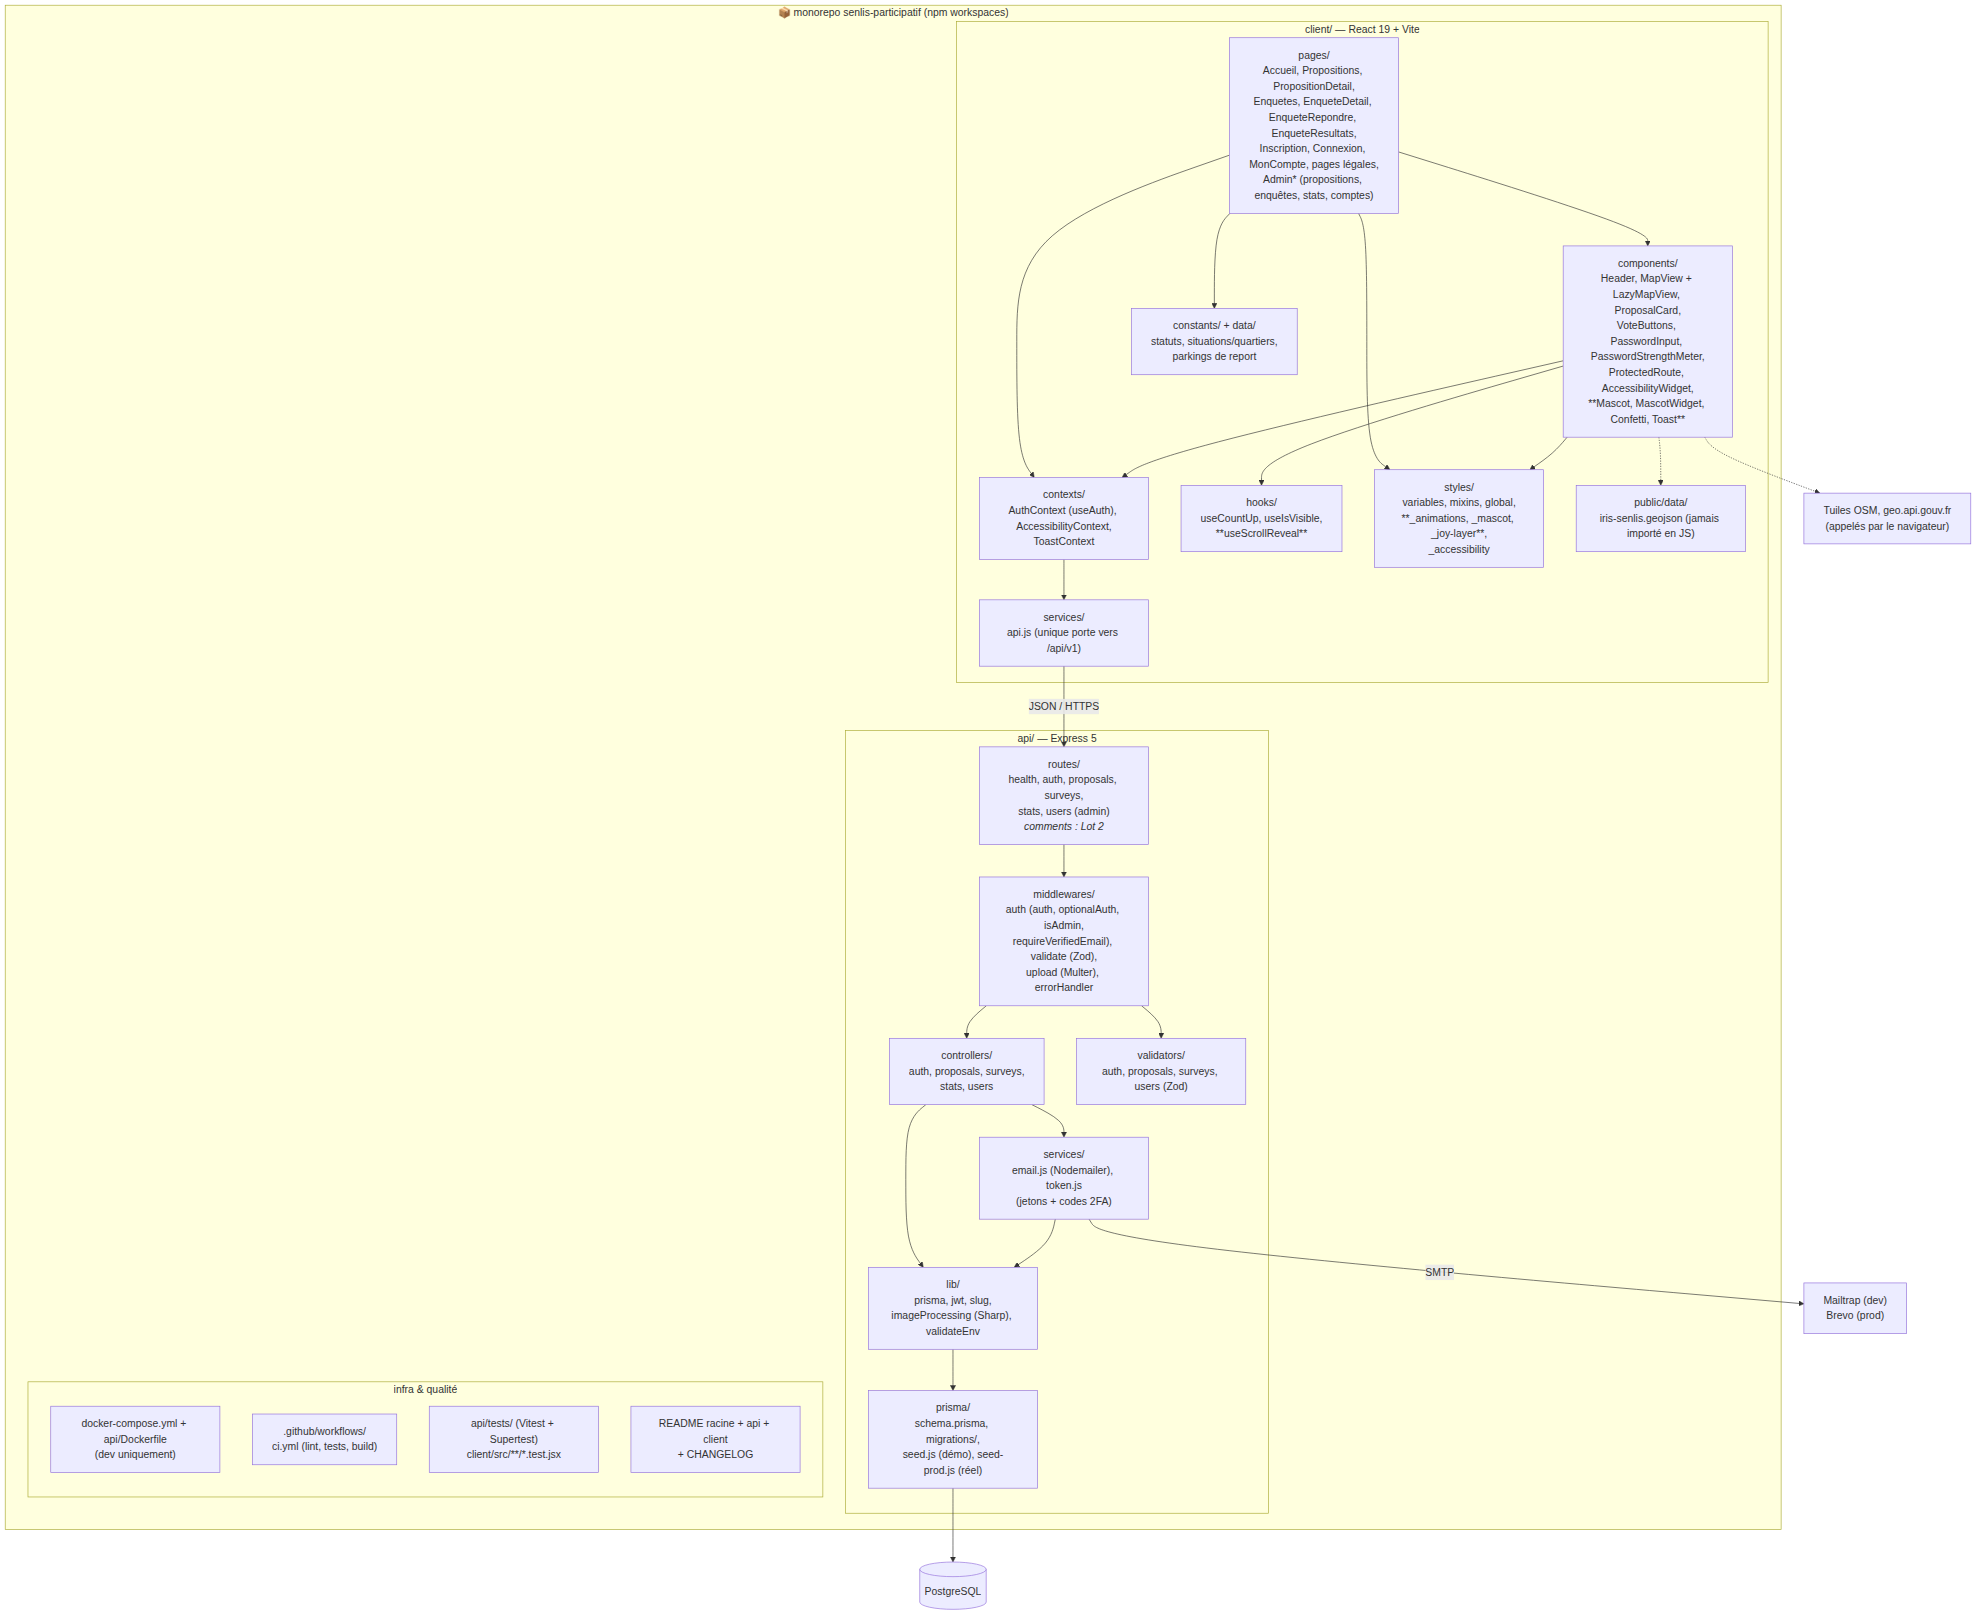
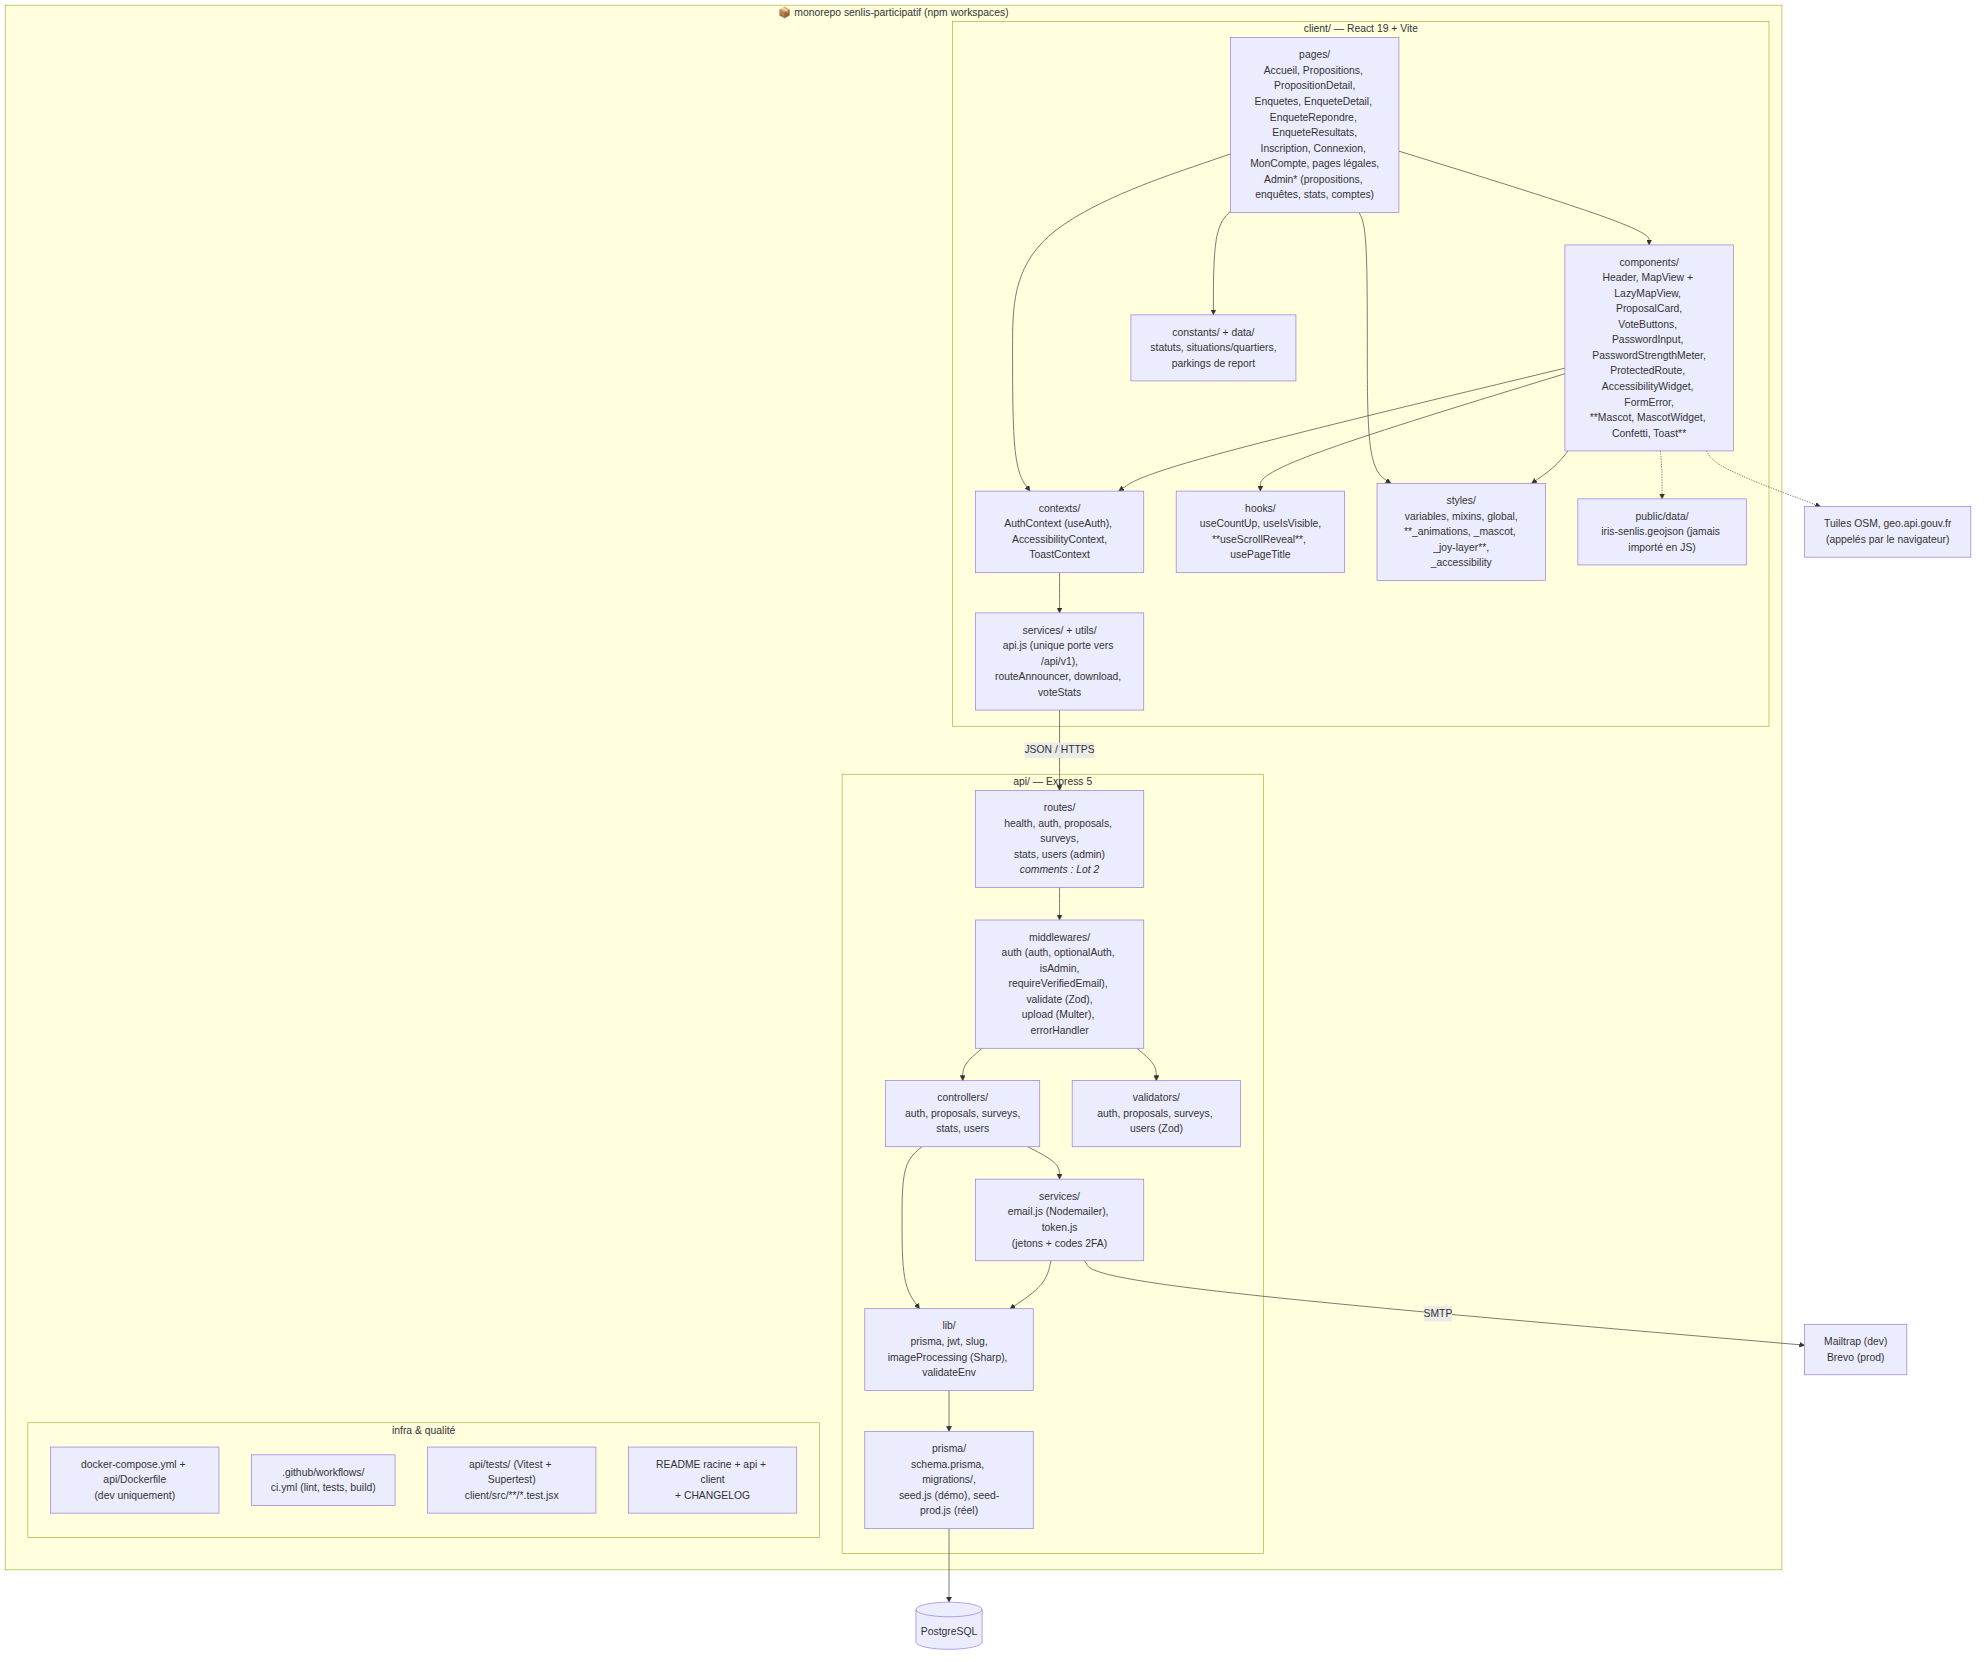
docs: S5A-07 — RGAA corrigé (21), sitemap (14), packages (13), routes (01), kanban (16 + ajouts S5A-08)

diff --git a/16-kanban-issues-complet.md b/16-kanban-issues-complet.md
@@ -22,6 +22,8 @@
 >
 > **Mise à jour v1.10** (23/09/2026) : audit sécurité / RGPD / accessibilité avant la mise en ligne (voir `21-audit-securite-rgpd-accessibilite.md`). Nouveau bloc **Sprint 5 audit** (8 issues, S5A-01 à S5A-08), placé **après S5-21 et avant la mise en ligne réelle (Sprint 5ter)** : on ne met pas en ligne un site qui laisse ses droits d'admin à un compte rétrogradé ou qui envoie l'IP de ses visiteurs à Google. +7 jours de travail (88 → 96 j au calendrier, S5-21 et S5A se chevauchant d'un jour), répercutés sur les sprints 5ter, 6 et 7. Au passage : cases ✅ ajoutées aux sprints 0 à 4 (tous livrés, tag `v0.3.0` pour la carte), S5-16 coché (livré mais oublié), S5-21 complété le 24/09 (volet propositions + seuil de confidentialité de 5 personnes, ajouté à ses critères par l'audit), `develop` → `dev` dans les règles, calendrier semaines/jours réaligné. Pour le Lot 2 : les préférences de notification devront passer à `false` par défaut (RGPD art. 25, protection des données par défaut) — noté dans S7-04.
 >
+> **Ajout v1.10 (28/09/2026, pendant S5A-07)** : deux constats versés dans S5A-08 plutôt que corrigés au passage — (1) la config ESLint du client n'a pas de clé `files` : les fichiers `.jsx` sont ignorés (« File ignored because no matching configuration »), donc aucune page n'est réellement lintée ; l'activer demande `eslint-plugin-react` (sinon 137 faux « unused-vars » sur les composants utilisés en JSX) ; (2) `Connexion.jsx` accepte un `?redirect=` commençant par `//` (URL « protocole-relative ») — pas de fuite, `pushState` lève une erreur, mais à refuser explicitement.
+>
 > **Légende** : ✅ livré (mergé sur `dev`) · 🔶 partiellement livré · sans marque = à faire.
 >
 > **Gabarit d'issue** (à enregistrer comme template GitHub) : *Contexte* (lien cahier des charges) · *Critères d'acceptation* (cases à cocher) · *Definition of Done rappelée*.
@@ -144,8 +146,8 @@
 | **S5A-04** | **`docs(client): politique de confidentialité et mentions légales exactes (bases légales, destinataires, durées, droits, CNIL) + registre des traitements`** ✅ | **`lot:1` `type:docs` `zone:client` `prio:haute`** | **`docs/legal-pages-accuracy`** | **1 j** | **J66–J67** |
 | **S5A-05** | **`feat(api+client): droits RGPD — export de mes données (accès/portabilité) + purge des comptes inactifs et des jetons expirés`** ✅ | **`lot:1` `type:feature` `zone:api` `zone:client`** | **`feat/gdpr-export-purge`** | **1 j** | **J67–J68** |
 | **S5A-06** | **`feat(api+client): durcissement auth — essais 2FA limités, mot de passe exigé pour changer d'email ou supprimer son compte, révocation des sessions après changement de mot de passe, journal des actions admin (ANSSI/CNIL)`** ✅ | **`lot:1` `type:feature` `zone:api` `zone:client` `zone:bdd` `prio:haute`** | **`feat/auth-hardening`** | **1,5 j** | **J68–J69** |
-| **S5A-07** | **`fix(client): RGAA — titre unique par page, erreurs reliées aux champs, annonce des changements de page, déclaration d'accessibilité + plan du site`** | **`lot:1` `type:bug` `zone:client` `prio:haute`** | **`fix/rgaa-conformity`** | **1,5 j** | **J70–J71** |
-| **S5A-08** | **`chore(infra): préparation prod — trust proxy, URL absolue des images + CORP same-site, tuiles OSM, docker-compose/Dockerfile corrigés, npm audit en CI`** | **`lot:1` `type:infra` `zone:ci` `prio:haute`** | **`chore/prod-readiness`** | **0,5 j** | **J71** |
+| **S5A-07** | **`fix(client): RGAA — titre unique par page, erreurs reliées aux champs, annonce des changements de page, déclaration d'accessibilité + plan du site`** ✅ | **`lot:1` `type:bug` `zone:client` `prio:haute`** | **`fix/rgaa-conformity`** | **1,5 j** | **J70–J71** |
+| **S5A-08** | **`chore(infra): préparation prod — trust proxy, URL absolue des images + CORP same-site, tuiles OSM, docker-compose/Dockerfile corrigés, npm audit en CI, ESLint client étendu aux .jsx, redirection après connexion refusant « // »`** | **`lot:1` `type:infra` `zone:ci` `prio:haute`** | **`chore/prod-readiness`** | **0,5 j** | **J71** |
 
 🎯 *Fin de sprint : plus aucun point 🔴 de l'audit ouvert — le site peut être mis en ligne sans exposer ni ses visiteurs ni sa future relation avec la mairie.*
 

diff --git a/21-audit-securite-rgpd-accessibilite.md b/21-audit-securite-rgpd-accessibilite.md
@@ -17,7 +17,7 @@
 | Sécurité applicative (OWASP / ANSSI) | Socle solide — faille de contrôle d'accès corrigée (S5A-01) | 0 | S5A-01, S5A-02, S5A-06, S5A-08 |
 | Données personnelles (RGPD / CNIL) | Bonne conception (pseudonymisation), Google Fonts retiré, information des personnes exacte | 0 | S5A-03, S5A-04, S5A-05, S5-21 |
 | Cookies et consentement | ✅ Aucun bandeau nécessaire (Google Fonts retiré par S5A-03) | 0 | S5A-03 ✅ |
-| Accessibilité (RGAA) | Bonne base (skip link, widget, reduced-motion), critères de structure manquants | 0 | S5A-07 |
+| Accessibilité (RGAA) | Bonne base + critères de structure corrigés ; déclaration publiée (« non conforme » faute d'audit complet) | 0 | S5A-07 ✅ |
 | Mise en production | 3 points bloqueraient le site en ligne | 1 | S5A-08, S5-22, S5-24 |
 
 ---
@@ -136,7 +136,9 @@ Segmenter par profil (ex. « salarié·e·s de la Zone industrielle ») peut pro
 
 ---
 
-## 6. Accessibilité (RGAA 4.1) — S5A-07
+## 6. Accessibilité (RGAA 4.1) — S5A-07 ✅ *corrigé le 28/09/2026*
+
+> **Correctif appliqué** : toutes les lignes ci-dessous sont traitées. Titres via `usePageTitle` (un test échoue si une page l'oublie) ; annonce + focus au changement de page (`utils/routeAnnouncer.js`, zone `aria-live`) ; `FormError` + `errorProps` pour relier chaque erreur à son champ, focus sur le champ fautif ; champs d'enquête étiquetés ; pages `/accessibilite` et `/plan-du-site`, liens en pied de page. **État déclaré : « non conforme »** — c'est la mention que le RGAA impose tant qu'aucun audit complet (106 critères sur un échantillon) n'a été mené, même si l'essentiel est respecté ; passer à « partiellement » ou « totalement conforme » après un audit (constante `ACCESSIBILITY` dans `constants/legal.js`). Reste signalé dans la déclaration : carte Leaflet (alternative textuelle existante) et formulaires d'administration (erreur globale non reliée au champ).
 
 | Critère | Constat | Correctif |
 |---|---|---|

diff --git a/13-diagramme-package.md b/13-diagramme-package.md
@@ -12,11 +12,11 @@ flowchart TB
         subgraph CLIENT ["client/ — React 19 + Vite"]
             direction TB
             PAGES["pages/<br/>Accueil, Propositions, PropositionDetail,<br/>Enquetes, EnqueteDetail, EnqueteRepondre, EnqueteResultats,<br/>Inscription, Connexion, MonCompte, pages légales,<br/>Admin* (propositions, enquêtes, stats, comptes)"]
-            COMP["components/<br/>Header, MapView + LazyMapView, ProposalCard,<br/>VoteButtons, PasswordInput, PasswordStrengthMeter,<br/>ProtectedRoute, AccessibilityWidget,<br/>**Mascot, MascotWidget, Confetti, Toast**"]
+            COMP["components/<br/>Header, MapView + LazyMapView, ProposalCard,<br/>VoteButtons, PasswordInput, PasswordStrengthMeter,<br/>ProtectedRoute, AccessibilityWidget, FormError,<br/>**Mascot, MascotWidget, Confetti, Toast**"]
             CTX["contexts/<br/>AuthContext (useAuth), AccessibilityContext,<br/>ToastContext"]
-            HOOKS["hooks/<br/>useCountUp, useIsVisible,<br/>**useScrollReveal**"]
+            HOOKS["hooks/<br/>useCountUp, useIsVisible,<br/>**useScrollReveal**, usePageTitle"]
             CONST["constants/ + data/<br/>statuts, situations/quartiers,<br/>parkings de report"]
-            SRV_C["services/<br/>api.js (unique porte vers /api/v1)"]
+            SRV_C["services/ + utils/<br/>api.js (unique porte vers /api/v1),<br/>routeAnnouncer, download, voteStats"]
             STYLES["styles/<br/>variables, mixins, global,<br/>**_animations, _mascot, _joy-layer**,<br/>_accessibility"]
             PUB["public/data/<br/>iris-senlis.geojson (jamais importé en JS)"]
             PAGES --> COMP --> HOOKS

diff --git a/14-sitemap.md b/14-sitemap.md
@@ -30,7 +30,7 @@ flowchart TD
     HOME -.-> ADMM["👑 /admin/moderation<br/>(Lot 2)"]:::lot2
 
     HOME --> LEGAL["🔓 /mentions-legales<br/>/confidentialite"]
-    HOME -.-> A11Y["🔓 /accessibilite · /plan-du-site<br/>(S5A-07)"]:::lot2
+    HOME --> A11Y["🔓 /accessibilite · /plan-du-site<br/>déclaration RGAA, plan du site"]
     HOME --> NF["🔓 /* — page 404"]
 
     classDef lot2 stroke-dasharray:5 5
@@ -40,4 +40,4 @@ flowchart TD
 - **Profondeur maximale : 3 clics** depuis l'accueil pour toute action citoyenne (voter, répondre) — parcours courts, exigence du public senior.
 - **Tout le public est consultable sans compte** : on ne demande l'inscription qu'au moment de *participer* (voter, répondre), jamais pour *s'informer*. Un vote tenté sans être connecté est mémorisé (`sessionStorage`) puis rejoué après la connexion.
 - **La zone admin est un sous-arbre étanche** : préfixe `/admin`, garde de route côté front (`ProtectedRoute adminOnly`) doublée par le middleware `isAdmin` côté API — la vraie protection est toujours côté serveur.
-- Le footer porte les pages légales depuis chaque écran ; il portera aussi « Accessibilité » et « Plan du site » (RGAA 12.1 : deux systèmes de navigation).
+- Le footer porte, depuis chaque écran, les pages légales, la mention « Accessibilité : non conforme » (lien vers la déclaration) et le plan du site (RGAA 12.1 : deux systèmes de navigation).

diff --git a/01-cahier-des-charges-v1.4.md b/01-cahier-des-charges-v1.4.md
@@ -226,7 +226,7 @@ Note : les animations CSS de la mascotte utilisent exclusivement des propriété
 /admin/comptes                       Promouvoir / rétrograder un admin
 /admin/moderation                    File de modération (Lot 2)
 /mentions-legales · /confidentialite Pages légales
-/accessibilite · /plan-du-site       Déclaration d'accessibilité, plan du site (S5A-07)
+/accessibilite · /plan-du-site       Déclaration d'accessibilité (modèle RGAA), plan du site
 /*                                   Page 404 (mascotte « perdue »)
 ```
 
